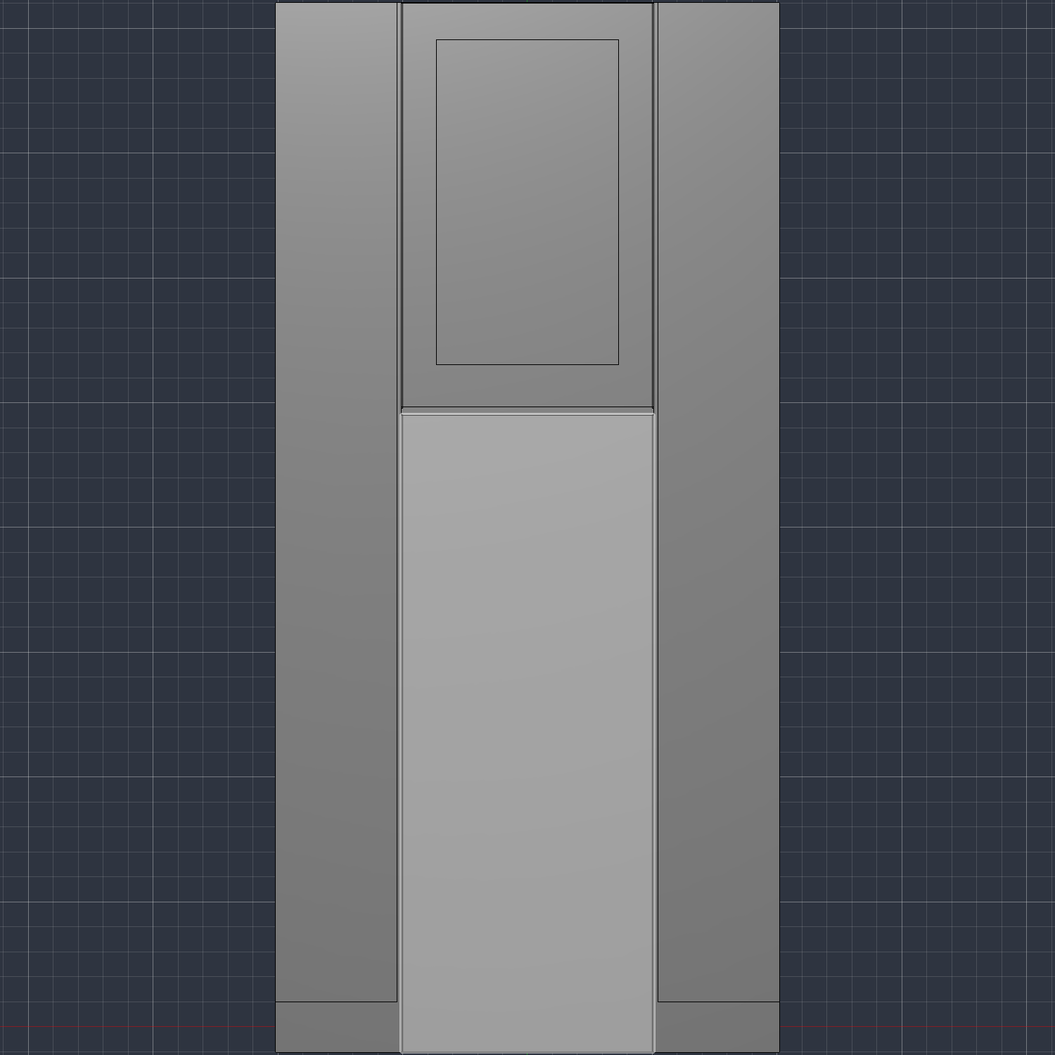
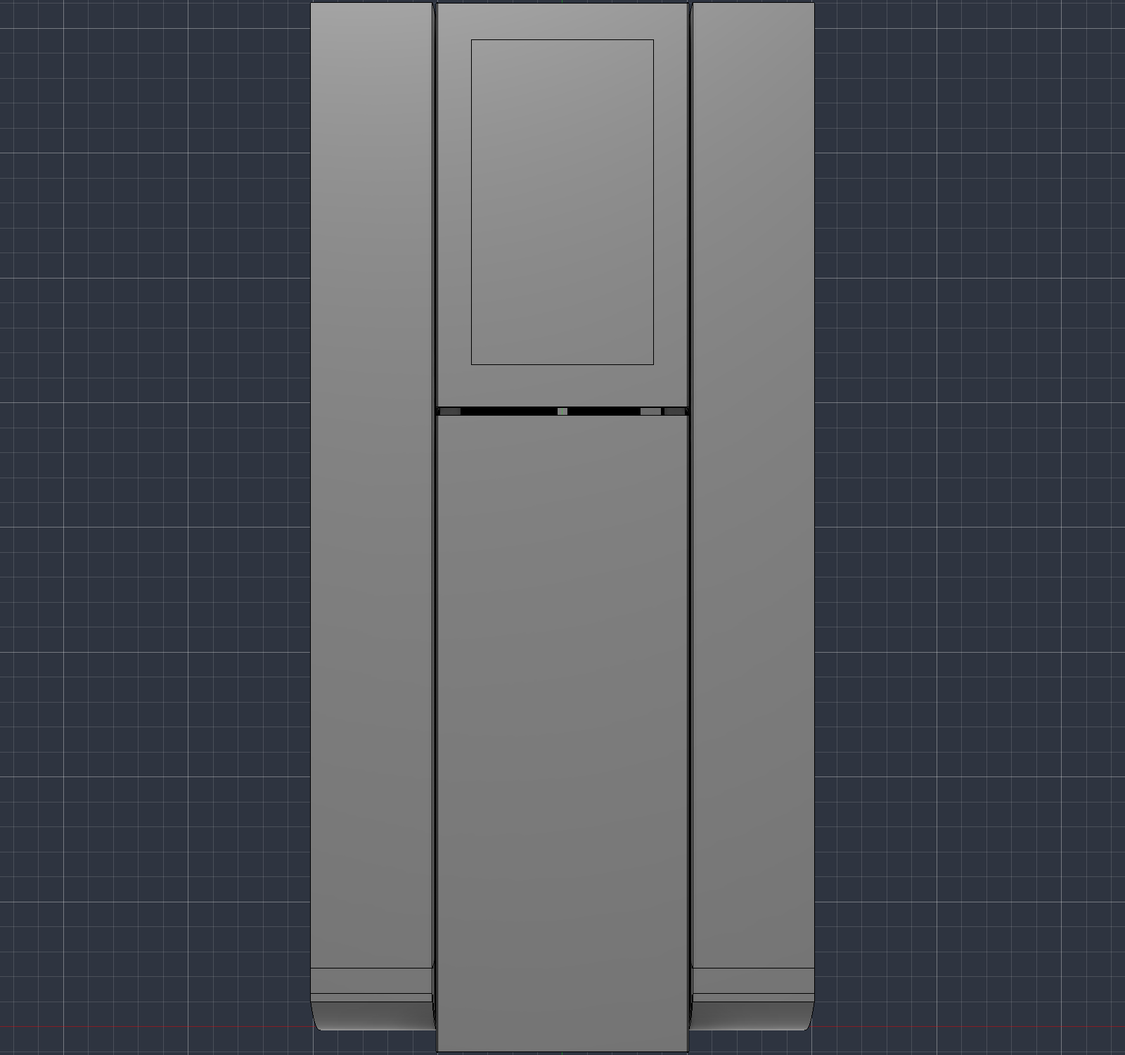
Refresh the homepage CAD gallery for R07
The gallery still showed R04-era renders and described the leg-arms as
split at hip and knee, which stopped being true when the gait moved to a
compass walker with rigid limbs. It also carried a 194 x 345 display
aperture that is now 174 x 310.

Lead with the dimensioned general arrangement rather than a render, since
that is the drawing someone building this would actually read. Alongside
it, a fresh assembly view and a skins-off view of the welded subframe,
both rendered from R07.

Captions now describe what the images show: overall and section
dimensions, formed 5052-H32 bodywork over the subframe, and the TIG
welded 6061 frame with the machined hip bulkheads, AK45-10 drive and
equipment stack.

The section heading credits cad/build_model.py, since the geometry is
generated rather than drawn by hand.

Also repoint the bundle test at the images the page actually uses. It was
still guarding gptars-compute-v2.png and gptars-aluminium-v1.png, which
nothing has referenced for several revisions, so it would not have caught
a missing gallery image.

Changed region(s): [[0.2453, 0.0, 0.7667, 1.0]]

diff --git a/docs/index.html b/docs/index.html
@@ -1,5 +1,5 @@
-<!DOCTYPE html><html lang="en" data-theme="dark"><head><meta charSet="utf-8"/><meta name="viewport" content="width=device-width, initial-scale=1"/><link rel="preload" href="/GPTars_v2/images/gptars-shell-iso.png" as="image"/><link rel="preload" href="/GPTars_v2/images/gptars-shell-front.png" as="image"/><link rel="preload" href="/GPTars_v2/images/tars-original-reference.png" as="image"/><link rel="stylesheet" href="/GPTars_v2/assets/index-CMVArBPM.css"/><title>GP-TARS V2 — 1 Metre Walking Robot</title><meta name="description" content="Engineering specifications, Fusion drawings, closed-loop walking, ROS 2 control and local AI architecture for the one-metre autonomous GP-TARS V2 robot."/><meta property="og:title" content="GP-TARS V2 — Autonomous walking TARS"/><meta property="og:description" content="An all-metal one-metre robot with closed-loop walking, ROS 2 control, vision, speech and local AI."/><meta property="og:type" content="website"/><meta property="og:image" content="https://scottmeddings.github.io/GPTars_v2/og-project-summary-v2.png"/><meta property="og:image:width" content="1200"/><meta property="og:image:height" content="630"/><meta property="og:image:alt" content="GP-TARS V2 autonomous walking robot engineering concept"/><meta name="twitter:card" content="summary_large_image"/><meta name="twitter:title" content="GP-TARS V2 — Autonomous walking TARS"/><meta name="twitter:description" content="An all-metal one-metre robot with closed-loop walking, ROS 2 control, vision, speech and local AI."/><meta name="twitter:image" content="https://scottmeddings.github.io/GPTars_v2/og-project-summary-v2.png"/><meta name="color-scheme" content="dark light"/>
-</head><body><main class="page-shell"><article class="drawing-sheet"><header class="title-block" id="top"><div><p class="eyebrow">GP-TARS V2 · 1 metre walking robot · engineering concept</p><h1>Autonomous walking TARS</h1><p class="subtitle">A one-metre robotic platform combining a structural metal chassis, closed-loop walking, local AI, speech and vision inside the recognisable TARS form.</p></div><div class="revision-stamp" aria-label="Project revision"><span>MODEL <b>NARROW 480</b></span><span>BUILD <b>HYBRID</b></span><span>UNITS <b>MM</b></span><span>STATUS <b>CONCEPT</b></span></div></header><nav class="section-nav" aria-label="Site sections"><a href="/GPTars_v2/" aria-current="page">Overview</a><a href="/GPTars_v2/model">3D model</a><a href="/GPTars_v2/decals">Decals</a><a href="/GPTars_v2/docs">Documents</a><a href="/GPTars_v2/parameters">Parameters</a><button type="button" aria-label="Toggle colour theme">Light sheet</button></nav><section class="hero" id="overview"><div class="hero-copy"><div class="status-line"><i></i> Full-scale engineering development</div><h2>TARS on the outside. A modern autonomous robot inside.</h2><p>The open-source GPTARS geometry supplies the external proportions only. Walking loads pass through a purpose-built 6061-T6 aluminium frame, steel shafts and sealed bearings; removable cosmetic panels create the exterior. A high-performance mini PC, NVIDIA GPU and dedicated real-time controller provide local intelligence without giving the LLM direct control of the motors.</p><div class="hero-actions"><a class="button primary" href="/GPTars_v2/downloads/GP_TARS_V2_1000_ALUMINIUM_COMPUTE_V2.f3d">Download current Fusion model</a><a class="button" href="https://github.com/scottmeddings/GPTars_v2">Private project repository</a></div></div><figure class="hero-figure"><img src="/GPTars_v2/images/gptars-shell-iso.png" alt="Fusion view of the 480 mm GP-TARS V2 aluminium shell, service panels and leg-arm slabs"/><figcaption>NARROW 480 · 480 × 1000 × 260 mm · Fusion assembly</figcaption></figure></section><section><div class="section-heading"><span>01</span><div><p>Master envelope</p><h2>Key specifications</h2></div></div><div class="spec-grid"><article class="spec-card"><p>Standing height</p><strong>1,000</strong><span>mm target envelope</span></article><article class="spec-card"><p>CAD scale factor</p><strong>3.993659×</strong><span>measured from source height</span></article><article class="spec-card"><p>Mass target</p><strong>12–25</strong><span>kg design class</span></article><article class="spec-card"><p>Main joint torque</p><strong>60</strong><span>N·m continuous target</span></article><article class="spec-card"><p>Peak joint torque</p><strong>100+</strong><span>N·m preliminary target</span></article><article class="spec-card"><p>System bus</p><strong>12.8</strong><span>V DC nominal</span></article></div><div class="notice warning"><b>Concept status:</b> 60 N·m continuous and 100+ N·m peak are preliminary main-joint targets. Centre-of-gravity, static-load, landing, recovery and fatigue calculations must validate them before actuator selection or walking-load fabrication.</div></section><section id="drawings"><div class="section-heading"><span>02</span><div><p>Fusion reference views</p><h2>CAD drawing gallery</h2></div></div><div class="drawing-grid"><figure class="drawing drawing-main"><img src="/GPTars_v2/images/gptars-shell-iso.png" alt="Current GP-TARS V2 narrow-body assembly"/><figcaption><b>Current assembly.</b> Narrowed 480 mm body, four slabs, with the leg-arms split at hip and knee.</figcaption></figure><figure class="drawing"><img src="/GPTars_v2/images/gptars-shell-front.png" alt="GP-TARS V2 front elevation showing panel splits and the display aperture"/><figcaption><b>Front elevation.</b> Panel splits, the rear-service layout and the 194 × 345 display aperture.</figcaption></figure><figure class="drawing"><img src="/GPTars_v2/images/tars-original-reference.png" alt="Original imported TARS source geometry in Fusion"/><figcaption><b>Source reference.</b> Original geometry retained for external proportion and datum extraction only.</figcaption></figure></div></section><section id="structure"><div class="section-heading"><span>03</span><div><p>Mechanical architecture</p><h2>Metal structure, removable exterior</h2></div></div><div class="split-layout"><div class="diagram-card"><div class="robot-elevation" role="img" aria-label="Simplified GP-TARS vertical equipment-zone diagram"><div class="dimension height-dim"><span>1,000 mm</span></div><div class="robot-outline"><div class="zone upper">UPPER JOINT MODULES</div><div class="zone controls">CONTROLS + IMU</div><div class="zone gpu">EXTERNAL GPU</div><div class="zone pc">AI X1 PRO</div><div class="zone battery">24 V BATTERY</div></div><div class="dimension width-dim"><span>480 mm</span></div></div></div><div><div class="notice"><b>Load-path rule:</b> removable cosmetic panels never carry walking loads, whatever they are made from. The aluminium chassis, actuator brackets, steel shafts and sealed bearings form a serviceable structural robot beneath the shell.</div><div class="table-wrap"><table><thead><tr><th>Part group</th><th>Material</th><th>Nominal size</th><th>Role</th></tr></thead><tbody><tr><td class="">Primary chassis</td><td class="mono">6061-T6 aluminium</td><td class="mono">20 × 40 / fabricated sections</td><td class="mono">Load path</td></tr><tr><td class="">Actuator brackets</td><td class="mono">6061-T6 aluminium</td><td class="mono">8 mm plate, sized after load study</td><td class="mono">Load path</td></tr><tr><td class="">External panels</td><td class="mono">5052-H32 aluminium sheet</td><td class="mono">1.2 mm nominal (1.0–1.6)</td><td class="mono">Cosmetic shell</td></tr><tr><td class="">Equipment trays</td><td class="mono">5052-H32 aluminium sheet</td><td class="mono">2–3 mm</td><td class="mono">Removable</td></tr><tr><td class="">Main shafts</td><td class="mono">Steel</td><td class="mono">Ø20 mm starting point</td><td class="mono">To be calculated</td></tr><tr><td class="">Bearing carriers</td><td class="mono">Aluminium / steel</td><td class="mono">Replaceable</td><td class="mono">Service item</td></tr></tbody></table></div></div></div></section><section id="walking" class="walking-section"><div class="section-heading"><span>04</span><div><p>Closed-loop locomotion</p><h2>Walking system</h2></div></div><div class="walking-intro"><div><p class="software-lede">Movement is measured, supervised and recoverable—not a scaled-up hobby-servo routine.</p><p>Integrated BLDC robotic actuators provide reduction gearing, encoders, closed-loop position control, current monitoring, torque limiting and CAN communication. The controller uses joint state, IMU, contact and current feedback to decide whether each stage is safe to continue.</p></div><article class="torque-card"><span>Preliminary main-joint target</span><strong>60 N·m</strong><small>continuous</small><b>100+ N·m peak</b></article></div><ol class="walking-cycle" aria-label="Proposed GP-TARS walking cycle"><li><span>01</span><b>Stand</b></li><li><span>02</span><b>Shift centre of gravity</b></li><li><span>03</span><b>Unload leading section</b></li><li><span>04</span><b>Rotate</b></li><li><span>05</span><b>Controlled pivot</b></li><li><span>06</span><b>Detect ground contact</b></li><li><span>07</span><b>Absorb landing</b></li><li><span>08</span><b>Rotate body through</b></li><li><span>09</span><b>Recover vertical</b></li><li><span>10</span><b>Verify stability</b></li></ol><div class="control-chain" aria-label="Walking control chain"><div><small>INTENT</small><b>Local AI computer</b></div><i>→</i><div><small>BOUNDARY</small><b>Motion API</b></div><i>→</i><div><small>REAL TIME</small><b>STM32 / Teensy-class MCU</b></div><i>→</i><div><small>FIELD BUS</small><b>CAN robotic actuators</b></div></div></section><section id="compute"><div class="section-heading"><span>05</span><div><p>Onboard intelligence</p><h2>Compute and local LLM GPU</h2></div></div><div class="compute-grid"><article class="system-card featured"><p class="card-label">Selected mini PC</p><h3>MINISFORUM AI X1 Pro-370</h3><ul><li><span>Processor</span><b>AMD Ryzen AI 9 HX 370</b></li><li><span>Integrated graphics</span><b>Radeon 890M</b></li><li><span>Memory support</span><b>Up to 128 GB DDR5</b></li><li><span>Installed envelope</span><b>195 × 195 × 47.5 mm</b></li><li><span>Mass</span><b>1.5 kg</b></li><li><span>GPU link</span><b>OCuLink PCIe 4.0 ×4</b></li></ul></article><article class="system-card"><p class="card-label">Configurable accelerator bay</p><h3>Approximately 16 GB NVIDIA GPU</h3><ul><li><span>Primary role</span><b>Local LLM inference</b></li><li><span>Current reservation</span><b>300 × 130 × 60 mm</b></li><li><span>Connection</span><b>OCuLink data</b></li><li><span>Power</span><b>Independent supply required</b></li><li><span>VRAM target</span><b>Approximately 16 GB</b></li><li><span>Exact card</span><b class="pending">To be selected after power tests</b></li><li><span>Dock + cable volume</span><b class="pending">Not yet modelled</b></li></ul></article></div><div class="power-flow" aria-label="Robot compute power and data architecture"><div><small>ENERGY</small><b>24 V battery</b></div><i>→</i><div><small>REGULATION</small><b>Protected DC conversion</b></div><i>→</i><div><small>COMPUTE</small><b>AI X1 Pro</b></div><i class="data">OCuLink</i><div><small>LLM</small><b>NVIDIA GPU</b></div></div><p class="fine-print">The 24 V robot battery must not connect directly to the mini PC. The external GPU also needs a separately sized protected supply; OCuLink carries data, not card power.</p></section><section id="sensors"><div class="section-heading"><span>06</span><div><p>Awareness and protection</p><h2>Sensors and independent safety</h2></div></div><div class="sensor-safety-grid"><div><h3 class="subheading">Sensor platform</h3><div class="sensor-grid"><article><b>Perception</b><span>RGB cameras · depth camera · optional LiDAR</span></article><article><b>Proximity</b><span>Time-of-Flight distance sensors · collision detection</span></article><article><b>Balance</b><span>IMU · tilt detection · ground-contact sensing</span></article><article><b>Joint state</b><span>Absolute encoders · velocity · motor current</span></article><article><b>Interaction</b><span>Microphone array · person and object recognition</span></article><article><b>Platform health</b><span>Battery · power · actuator and compute temperatures</span></article></div></div><div><h3 class="subheading">Safety independent of AI</h3><ul class="safety-list"><li>Physical mushroom E-stop</li><li>Independent actuator contactor</li><li>Manual battery disconnect</li><li>Current and torque limits</li><li>Joint travel limits and hard stops</li><li>Motion and communication watchdogs</li><li>Tilt and collision detection</li><li>Deterministic controlled fault state</li></ul></div></div><div class="notice warning"><b>Authority boundary:</b> the LLM may request a high-level action, but it can never bypass the behaviour supervisor, real-time limits, MCU watchdog or hardwired actuator-power isolation.</div></section><section id="software" class="software-section"><div class="section-heading"><span>07</span><div><p>Control and intelligence</p><h2>Software architecture</h2></div></div><div class="software-intro"><div><p class="software-lede">TARS-AI supplies the character. ROS 2 supplies the robot. A dedicated MCU supplies deterministic motion and safety.</p><p>The community software is a strong starting point for personality, speech, memory, vision and interface work. Its hobby-servo motion layer will be replaced by a supervised ROS 2 and CAN architecture designed for a one-metre walking machine.</p></div><div class="source-links"><a href="https://github.com/TARS-AI-Community/TARS-AI" target="_blank" rel="noreferrer"><b>TARS-AI V3</b><span>Primary software reference ↗</span></a><a href="https://github.com/poboisvert/GPTARS_Interstellar" target="_blank" rel="noreferrer"><b>GPTARS Interstellar</b><span>Historical motion reference ↗</span></a></div></div><div class="software-stack" aria-label="GP-TARS software and safety layers"><article><span class="layer-number">05</span><div><h3>TARS-AI experience</h3><p>Personality, wake word, STT, TTS, memory, vision, dashboard and skills</p></div><b>Mini PC · Python services</b></article><article><span class="layer-number">04</span><div><h3>Behaviour supervisor</h3><p>Validates intent, robot state, permissions and movement preconditions</p></div><b>Mini PC · ROS 2 node</b></article><article><span class="layer-number">03</span><div><h3>ROS 2 control</h3><p>Robot model, trajectories, state estimation, diagnostics and hardware abstraction</p></div><b>Mini PC · ROS 2 Jazzy</b></article><article><span class="layer-number">02</span><div><h3>Real-time motion</h3><p>CAN commands, encoder feedback, limits, watchdog, brakes and safe stop</p></div><b>Dedicated MCU</b></article><article><span class="layer-number">01</span><div><h3>Independent safety</h3><p>E-stop loop, contactor, hard limits and power isolation</p></div><b>Hardwired system</b></article></div><div class="software-columns"><div><h3 class="subheading">Community code decision</h3><div class="table-wrap software-table"><table><thead><tr><th>Subsystem</th><th>Decision</th><th>GP-TARS V2 treatment</th></tr></thead><tbody><tr><td>Character/persona system</td><td><span class="decision-chip reuse">Reuse</span></td><td>TARS voice, humour and response behaviour</td></tr><tr><td>Wake word, STT and barge-in</td><td><span class="decision-chip reuse">Reuse</span></td><td>Keep modular speech pipeline</td></tr><tr><td>Piper TTS</td><td><span class="decision-chip reuse">Reuse</span></td><td>Local low-latency speech</td></tr><tr><td>Memory/RAG and message router</td><td><span class="decision-chip reuse">Reuse</span></td><td>Keep behind a stable service boundary</td></tr><tr><td>Vision and web dashboard</td><td><span class="decision-chip adapt">Adapt</span></td><td>Move heavy processing to mini PC/GPU</td></tr><tr><td>Movement skill registry</td><td><span class="decision-chip adapt">Adapt</span></td><td>Emit restricted ROS actions only</td></tr><tr><td>PCA9685 servo controller</td><td><span class="decision-chip replace">Replace</span></td><td>Not suitable for full-scale walking loads</td></tr><tr><td>Threaded direct movement calls</td><td><span class="decision-chip replace">Replace</span></td><td>Use supervised, cancellable trajectories</td></tr></tbody></table></div></div><div><h3 class="subheading">Operating stack</h3><div class="stack-specs"><article><span>Host OS</span><b>Ubuntu 24.04 LTS</b><small>MINISFORUM AI X1 Pro</small></article><article><span>Robot framework</span><b>ROS 2 Jazzy</b><small>Lifecycle-managed nodes</small></article><article><span>Motion framework</span><b>ros2_control</b><small>Custom CAN hardware interface</small></article><article><span>LLM runtime</span><b>llama.cpp server</b><small>CUDA · OpenAI-style API</small></article><article><span>Real-time layer</span><b>Dedicated MCU</b><small>CAN/CAN-FD · watchdog</small></article><article><span>Simulation</span><b>URDF + mock hardware</b><small>No motors required</small></article></div></div></div><div class="command-boundary"><div class="boundary-title"><span>LLM COMMAND BOUNDARY</span><b>High-level intent only</b></div><div class="command-grid"><div class="allowed"><small>ALLOWED</small><code>perform_gesture(&quot;wave_right&quot;)</code><code>walk_relative(0.30, 0.05)</code><code>turn_relative(15)</code><code>stop_motion()</code></div><div class="blocked"><small>BLOCKED</small><code>raw_pwm(channel, value)</code><code>set_motor_current(amps)</code><code>unchecked_joint_angle()</code><code>bypass_safety()</code></div></div><p>The behaviour supervisor checks mode, balance state, active faults, limits and operator permission before any motion action reaches ROS 2. The MCU independently rejects stale or invalid commands.</p></div><div class="software-repo"><div><h3 class="subheading">Proposed project structure</h3><pre aria-label="Proposed project repository structure">/
+<!DOCTYPE html><html lang="en" data-theme="dark"><head><meta charSet="utf-8"/><meta name="viewport" content="width=device-width, initial-scale=1"/><link rel="preload" href="/GPTars_v2/images/gptars-shell-iso.png" as="image"/><link rel="preload" href="/GPTars_v2/images/gptars-elevation.svg" as="image"/><link rel="preload" href="/GPTars_v2/images/gptars-subframe-iso.png" as="image"/><link rel="stylesheet" href="/GPTars_v2/assets/index-CMVArBPM.css"/><title>GP-TARS V2 — 1 Metre Walking Robot</title><meta name="description" content="Engineering specifications, Fusion drawings, closed-loop walking, ROS 2 control and local AI architecture for the one-metre autonomous GP-TARS V2 robot."/><meta property="og:title" content="GP-TARS V2 — Autonomous walking TARS"/><meta property="og:description" content="An all-metal one-metre robot with closed-loop walking, ROS 2 control, vision, speech and local AI."/><meta property="og:type" content="website"/><meta property="og:image" content="https://scottmeddings.github.io/GPTars_v2/og-project-summary-v2.png"/><meta property="og:image:width" content="1200"/><meta property="og:image:height" content="630"/><meta property="og:image:alt" content="GP-TARS V2 autonomous walking robot engineering concept"/><meta name="twitter:card" content="summary_large_image"/><meta name="twitter:title" content="GP-TARS V2 — Autonomous walking TARS"/><meta name="twitter:description" content="An all-metal one-metre robot with closed-loop walking, ROS 2 control, vision, speech and local AI."/><meta name="twitter:image" content="https://scottmeddings.github.io/GPTars_v2/og-project-summary-v2.png"/><meta name="color-scheme" content="dark light"/>
+</head><body><main class="page-shell"><article class="drawing-sheet"><header class="title-block" id="top"><div><p class="eyebrow">GP-TARS V2 · 1 metre walking robot · engineering concept</p><h1>Autonomous walking TARS</h1><p class="subtitle">A one-metre robotic platform combining a structural metal chassis, closed-loop walking, local AI, speech and vision inside the recognisable TARS form.</p></div><div class="revision-stamp" aria-label="Project revision"><span>MODEL <b>NARROW 480</b></span><span>BUILD <b>HYBRID</b></span><span>UNITS <b>MM</b></span><span>STATUS <b>CONCEPT</b></span></div></header><nav class="section-nav" aria-label="Site sections"><a href="/GPTars_v2/" aria-current="page">Overview</a><a href="/GPTars_v2/model">3D model</a><a href="/GPTars_v2/decals">Decals</a><a href="/GPTars_v2/docs">Documents</a><a href="/GPTars_v2/parameters">Parameters</a><button type="button" aria-label="Toggle colour theme">Light sheet</button></nav><section class="hero" id="overview"><div class="hero-copy"><div class="status-line"><i></i> Full-scale engineering development</div><h2>TARS on the outside. A modern autonomous robot inside.</h2><p>The open-source GPTARS geometry supplies the external proportions only. Walking loads pass through a purpose-built 6061-T6 aluminium frame, steel shafts and sealed bearings; removable cosmetic panels create the exterior. A high-performance mini PC, NVIDIA GPU and dedicated real-time controller provide local intelligence without giving the LLM direct control of the motors.</p><div class="hero-actions"><a class="button primary" href="/GPTars_v2/downloads/GP_TARS_V2_1000_ALUMINIUM_COMPUTE_V2.f3d">Download current Fusion model</a><a class="button" href="https://github.com/scottmeddings/GPTars_v2">Private project repository</a></div></div><figure class="hero-figure"><img src="/GPTars_v2/images/gptars-shell-iso.png" alt="Fusion view of the 480 mm GP-TARS V2 aluminium shell, service panels and leg-arm slabs"/><figcaption>NARROW 480 · 480 × 1000 × 260 mm · Fusion assembly</figcaption></figure></section><section><div class="section-heading"><span>01</span><div><p>Master envelope</p><h2>Key specifications</h2></div></div><div class="spec-grid"><article class="spec-card"><p>Standing height</p><strong>1,000</strong><span>mm target envelope</span></article><article class="spec-card"><p>CAD scale factor</p><strong>3.993659×</strong><span>measured from source height</span></article><article class="spec-card"><p>Mass target</p><strong>12–25</strong><span>kg design class</span></article><article class="spec-card"><p>Main joint torque</p><strong>60</strong><span>N·m continuous target</span></article><article class="spec-card"><p>Peak joint torque</p><strong>100+</strong><span>N·m preliminary target</span></article><article class="spec-card"><p>System bus</p><strong>12.8</strong><span>V DC nominal</span></article></div><div class="notice warning"><b>Concept status:</b> 60 N·m continuous and 100+ N·m peak are preliminary main-joint targets. Centre-of-gravity, static-load, landing, recovery and fatigue calculations must validate them before actuator selection or walking-load fabrication.</div></section><section id="drawings"><div class="section-heading"><span>02</span><div><p>Generated from cad/build_model.py</p><h2>CAD drawing gallery</h2></div></div><div class="drawing-grid"><figure class="drawing drawing-main"><img src="/GPTars_v2/images/gptars-elevation.svg" alt="Dimensioned front and side elevations of GP-TARS V2 at 480 by 1000 by 259.9 mm"/><figcaption><b>General arrangement, R07.</b> Front and side elevations dimensioned: 480 × 1000 × 259.9 overall, 240 chassis, 116 leg-arm slabs, hip axis at 610.8, 174 × 310 display aperture and the 200 mm rockered sole.</figcaption></figure><figure class="drawing"><img src="/GPTars_v2/images/gptars-shell-iso.png" alt="GP-TARS V2 assembled bodywork, leg-arm slabs and rockered feet"/><figcaption><b>Assembly.</b> Formed 5052-H32 bodywork over the welded subframe, with the display high on the front face.</figcaption></figure><figure class="drawing"><img src="/GPTars_v2/images/gptars-subframe-iso.png" alt="GP-TARS V2 with the skins removed, showing the welded subframe, drive train and equipment"/><figcaption><b>Skins off.</b> TIG-welded 6061 subframe, machined hip bulkheads, the AK45-10 drive and the equipment stack.</figcaption></figure></div></section><section id="structure"><div class="section-heading"><span>03</span><div><p>Mechanical architecture</p><h2>Metal structure, removable exterior</h2></div></div><div class="split-layout"><div class="diagram-card"><div class="robot-elevation" role="img" aria-label="Simplified GP-TARS vertical equipment-zone diagram"><div class="dimension height-dim"><span>1,000 mm</span></div><div class="robot-outline"><div class="zone upper">UPPER JOINT MODULES</div><div class="zone controls">CONTROLS + IMU</div><div class="zone gpu">EXTERNAL GPU</div><div class="zone pc">AI X1 PRO</div><div class="zone battery">24 V BATTERY</div></div><div class="dimension width-dim"><span>480 mm</span></div></div></div><div><div class="notice"><b>Load-path rule:</b> removable cosmetic panels never carry walking loads, whatever they are made from. The aluminium chassis, actuator brackets, steel shafts and sealed bearings form a serviceable structural robot beneath the shell.</div><div class="table-wrap"><table><thead><tr><th>Part group</th><th>Material</th><th>Nominal size</th><th>Role</th></tr></thead><tbody><tr><td class="">Primary chassis</td><td class="mono">6061-T6 aluminium</td><td class="mono">20 × 40 / fabricated sections</td><td class="mono">Load path</td></tr><tr><td class="">Actuator brackets</td><td class="mono">6061-T6 aluminium</td><td class="mono">8 mm plate, sized after load study</td><td class="mono">Load path</td></tr><tr><td class="">External panels</td><td class="mono">5052-H32 aluminium sheet</td><td class="mono">1.2 mm nominal (1.0–1.6)</td><td class="mono">Cosmetic shell</td></tr><tr><td class="">Equipment trays</td><td class="mono">5052-H32 aluminium sheet</td><td class="mono">2–3 mm</td><td class="mono">Removable</td></tr><tr><td class="">Main shafts</td><td class="mono">Steel</td><td class="mono">Ø20 mm starting point</td><td class="mono">To be calculated</td></tr><tr><td class="">Bearing carriers</td><td class="mono">Aluminium / steel</td><td class="mono">Replaceable</td><td class="mono">Service item</td></tr></tbody></table></div></div></div></section><section id="walking" class="walking-section"><div class="section-heading"><span>04</span><div><p>Closed-loop locomotion</p><h2>Walking system</h2></div></div><div class="walking-intro"><div><p class="software-lede">Movement is measured, supervised and recoverable—not a scaled-up hobby-servo routine.</p><p>Integrated BLDC robotic actuators provide reduction gearing, encoders, closed-loop position control, current monitoring, torque limiting and CAN communication. The controller uses joint state, IMU, contact and current feedback to decide whether each stage is safe to continue.</p></div><article class="torque-card"><span>Preliminary main-joint target</span><strong>60 N·m</strong><small>continuous</small><b>100+ N·m peak</b></article></div><ol class="walking-cycle" aria-label="Proposed GP-TARS walking cycle"><li><span>01</span><b>Stand</b></li><li><span>02</span><b>Shift centre of gravity</b></li><li><span>03</span><b>Unload leading section</b></li><li><span>04</span><b>Rotate</b></li><li><span>05</span><b>Controlled pivot</b></li><li><span>06</span><b>Detect ground contact</b></li><li><span>07</span><b>Absorb landing</b></li><li><span>08</span><b>Rotate body through</b></li><li><span>09</span><b>Recover vertical</b></li><li><span>10</span><b>Verify stability</b></li></ol><div class="control-chain" aria-label="Walking control chain"><div><small>INTENT</small><b>Local AI computer</b></div><i>→</i><div><small>BOUNDARY</small><b>Motion API</b></div><i>→</i><div><small>REAL TIME</small><b>STM32 / Teensy-class MCU</b></div><i>→</i><div><small>FIELD BUS</small><b>CAN robotic actuators</b></div></div></section><section id="compute"><div class="section-heading"><span>05</span><div><p>Onboard intelligence</p><h2>Compute and local LLM GPU</h2></div></div><div class="compute-grid"><article class="system-card featured"><p class="card-label">Selected mini PC</p><h3>MINISFORUM AI X1 Pro-370</h3><ul><li><span>Processor</span><b>AMD Ryzen AI 9 HX 370</b></li><li><span>Integrated graphics</span><b>Radeon 890M</b></li><li><span>Memory support</span><b>Up to 128 GB DDR5</b></li><li><span>Installed envelope</span><b>195 × 195 × 47.5 mm</b></li><li><span>Mass</span><b>1.5 kg</b></li><li><span>GPU link</span><b>OCuLink PCIe 4.0 ×4</b></li></ul></article><article class="system-card"><p class="card-label">Configurable accelerator bay</p><h3>Approximately 16 GB NVIDIA GPU</h3><ul><li><span>Primary role</span><b>Local LLM inference</b></li><li><span>Current reservation</span><b>300 × 130 × 60 mm</b></li><li><span>Connection</span><b>OCuLink data</b></li><li><span>Power</span><b>Independent supply required</b></li><li><span>VRAM target</span><b>Approximately 16 GB</b></li><li><span>Exact card</span><b class="pending">To be selected after power tests</b></li><li><span>Dock + cable volume</span><b class="pending">Not yet modelled</b></li></ul></article></div><div class="power-flow" aria-label="Robot compute power and data architecture"><div><small>ENERGY</small><b>24 V battery</b></div><i>→</i><div><small>REGULATION</small><b>Protected DC conversion</b></div><i>→</i><div><small>COMPUTE</small><b>AI X1 Pro</b></div><i class="data">OCuLink</i><div><small>LLM</small><b>NVIDIA GPU</b></div></div><p class="fine-print">The 24 V robot battery must not connect directly to the mini PC. The external GPU also needs a separately sized protected supply; OCuLink carries data, not card power.</p></section><section id="sensors"><div class="section-heading"><span>06</span><div><p>Awareness and protection</p><h2>Sensors and independent safety</h2></div></div><div class="sensor-safety-grid"><div><h3 class="subheading">Sensor platform</h3><div class="sensor-grid"><article><b>Perception</b><span>RGB cameras · depth camera · optional LiDAR</span></article><article><b>Proximity</b><span>Time-of-Flight distance sensors · collision detection</span></article><article><b>Balance</b><span>IMU · tilt detection · ground-contact sensing</span></article><article><b>Joint state</b><span>Absolute encoders · velocity · motor current</span></article><article><b>Interaction</b><span>Microphone array · person and object recognition</span></article><article><b>Platform health</b><span>Battery · power · actuator and compute temperatures</span></article></div></div><div><h3 class="subheading">Safety independent of AI</h3><ul class="safety-list"><li>Physical mushroom E-stop</li><li>Independent actuator contactor</li><li>Manual battery disconnect</li><li>Current and torque limits</li><li>Joint travel limits and hard stops</li><li>Motion and communication watchdogs</li><li>Tilt and collision detection</li><li>Deterministic controlled fault state</li></ul></div></div><div class="notice warning"><b>Authority boundary:</b> the LLM may request a high-level action, but it can never bypass the behaviour supervisor, real-time limits, MCU watchdog or hardwired actuator-power isolation.</div></section><section id="software" class="software-section"><div class="section-heading"><span>07</span><div><p>Control and intelligence</p><h2>Software architecture</h2></div></div><div class="software-intro"><div><p class="software-lede">TARS-AI supplies the character. ROS 2 supplies the robot. A dedicated MCU supplies deterministic motion and safety.</p><p>The community software is a strong starting point for personality, speech, memory, vision and interface work. Its hobby-servo motion layer will be replaced by a supervised ROS 2 and CAN architecture designed for a one-metre walking machine.</p></div><div class="source-links"><a href="https://github.com/TARS-AI-Community/TARS-AI" target="_blank" rel="noreferrer"><b>TARS-AI V3</b><span>Primary software reference ↗</span></a><a href="https://github.com/poboisvert/GPTARS_Interstellar" target="_blank" rel="noreferrer"><b>GPTARS Interstellar</b><span>Historical motion reference ↗</span></a></div></div><div class="software-stack" aria-label="GP-TARS software and safety layers"><article><span class="layer-number">05</span><div><h3>TARS-AI experience</h3><p>Personality, wake word, STT, TTS, memory, vision, dashboard and skills</p></div><b>Mini PC · Python services</b></article><article><span class="layer-number">04</span><div><h3>Behaviour supervisor</h3><p>Validates intent, robot state, permissions and movement preconditions</p></div><b>Mini PC · ROS 2 node</b></article><article><span class="layer-number">03</span><div><h3>ROS 2 control</h3><p>Robot model, trajectories, state estimation, diagnostics and hardware abstraction</p></div><b>Mini PC · ROS 2 Jazzy</b></article><article><span class="layer-number">02</span><div><h3>Real-time motion</h3><p>CAN commands, encoder feedback, limits, watchdog, brakes and safe stop</p></div><b>Dedicated MCU</b></article><article><span class="layer-number">01</span><div><h3>Independent safety</h3><p>E-stop loop, contactor, hard limits and power isolation</p></div><b>Hardwired system</b></article></div><div class="software-columns"><div><h3 class="subheading">Community code decision</h3><div class="table-wrap software-table"><table><thead><tr><th>Subsystem</th><th>Decision</th><th>GP-TARS V2 treatment</th></tr></thead><tbody><tr><td>Character/persona system</td><td><span class="decision-chip reuse">Reuse</span></td><td>TARS voice, humour and response behaviour</td></tr><tr><td>Wake word, STT and barge-in</td><td><span class="decision-chip reuse">Reuse</span></td><td>Keep modular speech pipeline</td></tr><tr><td>Piper TTS</td><td><span class="decision-chip reuse">Reuse</span></td><td>Local low-latency speech</td></tr><tr><td>Memory/RAG and message router</td><td><span class="decision-chip reuse">Reuse</span></td><td>Keep behind a stable service boundary</td></tr><tr><td>Vision and web dashboard</td><td><span class="decision-chip adapt">Adapt</span></td><td>Move heavy processing to mini PC/GPU</td></tr><tr><td>Movement skill registry</td><td><span class="decision-chip adapt">Adapt</span></td><td>Emit restricted ROS actions only</td></tr><tr><td>PCA9685 servo controller</td><td><span class="decision-chip replace">Replace</span></td><td>Not suitable for full-scale walking loads</td></tr><tr><td>Threaded direct movement calls</td><td><span class="decision-chip replace">Replace</span></td><td>Use supervised, cancellable trajectories</td></tr></tbody></table></div></div><div><h3 class="subheading">Operating stack</h3><div class="stack-specs"><article><span>Host OS</span><b>Ubuntu 24.04 LTS</b><small>MINISFORUM AI X1 Pro</small></article><article><span>Robot framework</span><b>ROS 2 Jazzy</b><small>Lifecycle-managed nodes</small></article><article><span>Motion framework</span><b>ros2_control</b><small>Custom CAN hardware interface</small></article><article><span>LLM runtime</span><b>llama.cpp server</b><small>CUDA · OpenAI-style API</small></article><article><span>Real-time layer</span><b>Dedicated MCU</b><small>CAN/CAN-FD · watchdog</small></article><article><span>Simulation</span><b>URDF + mock hardware</b><small>No motors required</small></article></div></div></div><div class="command-boundary"><div class="boundary-title"><span>LLM COMMAND BOUNDARY</span><b>High-level intent only</b></div><div class="command-grid"><div class="allowed"><small>ALLOWED</small><code>perform_gesture(&quot;wave_right&quot;)</code><code>walk_relative(0.30, 0.05)</code><code>turn_relative(15)</code><code>stop_motion()</code></div><div class="blocked"><small>BLOCKED</small><code>raw_pwm(channel, value)</code><code>set_motor_current(amps)</code><code>unchecked_joint_angle()</code><code>bypass_safety()</code></div></div><p>The behaviour supervisor checks mode, balance state, active faults, limits and operator permission before any motion action reaches ROS 2. The MCU independently rejects stale or invalid commands.</p></div><div class="software-repo"><div><h3 class="subheading">Proposed project structure</h3><pre aria-label="Proposed project repository structure">/
 ├── cad/          Parametric mechanical design
 ├── firmware/     Real-time motion controller
 ├── robot/        ROS 2 model, control and safety

diff --git a/docs/docs/aluminium-architecture/index.html b/docs/docs/aluminium-architecture/index.html
@@ -1,5 +1,5 @@
 <!DOCTYPE html><html lang="en" data-theme="dark"><head><meta charSet="utf-8"/><meta name="viewport" content="width=device-width, initial-scale=1"/><link rel="stylesheet" href="/GPTars_v2/assets/index-CMVArBPM.css"/><title>Hybrid mechanical architecture — GP-TARS V2</title><meta name="description" content="GP-TARS V2 will use aluminium for the load-bearing chassis, actuator carriers and equipment trays, with steel at highly loaded shafts and bearing elements. Removable formed 5052-H32 aluminium panels w"/><meta property="og:title" content="GP-TARS V2 — Autonomous walking TARS"/><meta property="og:description" content="An all-metal one-metre robot with closed-loop walking, ROS 2 control, vision, speech and local AI."/><meta property="og:type" content="website"/><meta property="og:image" content="https://scottmeddings.github.io/GPTars_v2/og-project-summary-v2.png"/><meta property="og:image:width" content="1200"/><meta property="og:image:height" content="630"/><meta property="og:image:alt" content="GP-TARS V2 autonomous walking robot engineering concept"/><meta name="twitter:card" content="summary_large_image"/><meta name="twitter:title" content="GP-TARS V2 — Autonomous walking TARS"/><meta name="twitter:description" content="An all-metal one-metre robot with closed-loop walking, ROS 2 control, vision, speech and local AI."/><meta name="twitter:image" content="https://scottmeddings.github.io/GPTars_v2/og-project-summary-v2.png"/><meta name="color-scheme" content="dark light"/>
-</head><body><main class="page-shell"><article class="drawing-sheet"><header class="title-block" id="top"><div><p class="eyebrow">GP-TARS V2 · document 04 of 10</p><h1>Hybrid mechanical architecture</h1><p class="subtitle">GP-TARS V2 will use aluminium for the load-bearing chassis, actuator carriers and equipment trays, with steel at highly loaded shafts and bearing elements. Removable formed 5052-H32 aluminium panels will form the recognisable external TARS body.</p></div><div class="revision-stamp" aria-label="Document revision"><span>REVISED <b>10 Aug 2026</b></span><span>SOURCE <b>docs/aluminium_architecture.md</b></span><span>SECTIONS <b>10</b></span><span>WORDS <b>1,441</b></span></div></header><nav class="section-nav" aria-label="Site sections"><a href="/GPTars_v2/">Overview</a><a href="/GPTars_v2/model">3D model</a><a href="/GPTars_v2/decals">Decals</a><a href="/GPTars_v2/docs">Documents</a><a href="/GPTars_v2/parameters">Parameters</a><button type="button" aria-label="Toggle colour theme">Light sheet</button></nav><section class="doc-section"><div class="doc-layout"><aside class="doc-toc" aria-label="Document contents"><p class="subheading">On this page</p><ol><li><a href="#decision">Decision</a></li><li><a href="#material-schedule">Material schedule</a></li><li><a href="#panel-design-rules">Panel design rules</a></li><li><a href="#mass-warning">Mass warning</a></li><li><a href="#joining-and-finish">Joining and finish</a></li><li><a href="#welding-the-subframe">Welding the subframe</a></li><li><a href="#decals-and-markings">Decals and markings</a></li></ol><a class="button doc-download" href="/GPTars_v2/downloads/aluminium_architecture.md" download="">Download markdown ↓</a></aside><div class="doc-body"><div class="doc-prose"><h2 id="decision"><a class="anchor" href="#decision">Decision</a></h2>
+</head><body><main class="page-shell"><article class="drawing-sheet"><header class="title-block" id="top"><div><p class="eyebrow">GP-TARS V2 · document 04 of 10</p><h1>Hybrid mechanical architecture</h1><p class="subtitle">GP-TARS V2 will use aluminium for the load-bearing chassis, actuator carriers and equipment trays, with steel at highly loaded shafts and bearing elements. Removable formed 5052-H32 aluminium panels will form the recognisable external TARS body.</p></div><div class="revision-stamp" aria-label="Document revision"><span>REVISED <b>11 Aug 2026</b></span><span>SOURCE <b>docs/aluminium_architecture.md</b></span><span>SECTIONS <b>10</b></span><span>WORDS <b>1,441</b></span></div></header><nav class="section-nav" aria-label="Site sections"><a href="/GPTars_v2/">Overview</a><a href="/GPTars_v2/model">3D model</a><a href="/GPTars_v2/decals">Decals</a><a href="/GPTars_v2/docs">Documents</a><a href="/GPTars_v2/parameters">Parameters</a><button type="button" aria-label="Toggle colour theme">Light sheet</button></nav><section class="doc-section"><div class="doc-layout"><aside class="doc-toc" aria-label="Document contents"><p class="subheading">On this page</p><ol><li><a href="#decision">Decision</a></li><li><a href="#material-schedule">Material schedule</a></li><li><a href="#panel-design-rules">Panel design rules</a></li><li><a href="#mass-warning">Mass warning</a></li><li><a href="#joining-and-finish">Joining and finish</a></li><li><a href="#welding-the-subframe">Welding the subframe</a></li><li><a href="#decals-and-markings">Decals and markings</a></li></ol><a class="button doc-download" href="/GPTars_v2/downloads/aluminium_architecture.md" download="">Download markdown ↓</a></aside><div class="doc-body"><div class="doc-prose"><h2 id="decision"><a class="anchor" href="#decision">Decision</a></h2>
 <p>GP-TARS V2 will use aluminium for the load-bearing chassis, actuator carriers and equipment trays, with steel at highly loaded shafts and bearing elements. Removable formed 5052-H32 aluminium panels will form the recognisable external TARS body.</p>
 <p>This supersedes the printed-polymer bodywork called for in the original brief; <code>docs/project_specification.md</code> carries the same revision note.</p>
 <p>The external shell is cosmetic and must never become part of the walking load path. Safety-critical material exceptions include:</p>

diff --git a/website/app/page.tsx b/website/app/page.tsx
@@ -223,20 +223,20 @@ export default function Home() {
 
         <section id="drawings">
           <div className="section-heading">
-            <span>02</span><div><p>Fusion reference views</p><h2>CAD drawing gallery</h2></div>
+            <span>02</span><div><p>Generated from cad/build_model.py</p><h2>CAD drawing gallery</h2></div>
           </div>
           <div className="drawing-grid">
             <figure className="drawing drawing-main">
-              <img src="/images/gptars-shell-iso.png" alt="Current GP-TARS V2 narrow-body assembly" />
-              <figcaption><b>Current assembly.</b> Narrowed 480 mm body, four slabs, with the leg-arms split at hip and knee.</figcaption>
+              <img src="/images/gptars-elevation.svg" alt="Dimensioned front and side elevations of GP-TARS V2 at 480 by 1000 by 259.9 mm" />
+              <figcaption><b>General arrangement, R07.</b> Front and side elevations dimensioned: 480 × 1000 × 259.9 overall, 240 chassis, 116 leg-arm slabs, hip axis at 610.8, 174 × 310 display aperture and the 200 mm rockered sole.</figcaption>
             </figure>
             <figure className="drawing">
-              <img src="/images/gptars-shell-front.png" alt="GP-TARS V2 front elevation showing panel splits and the display aperture" />
-              <figcaption><b>Front elevation.</b> Panel splits, the rear-service layout and the 194 × 345 display aperture.</figcaption>
+              <img src="/images/gptars-shell-iso.png" alt="GP-TARS V2 assembled bodywork, leg-arm slabs and rockered feet" />
+              <figcaption><b>Assembly.</b> Formed 5052-H32 bodywork over the welded subframe, with the display high on the front face.</figcaption>
             </figure>
             <figure className="drawing">
-              <img src="/images/tars-original-reference.png" alt="Original imported TARS source geometry in Fusion" />
-              <figcaption><b>Source reference.</b> Original geometry retained for external proportion and datum extraction only.</figcaption>
+              <img src="/images/gptars-subframe-iso.png" alt="GP-TARS V2 with the skins removed, showing the welded subframe, drive train and equipment" />
+              <figcaption><b>Skins off.</b> TIG-welded 6061 subframe, machined hip bulkheads, the AK45-10 drive and the equipment stack.</figcaption>
             </figure>
           </div>
         </section>
